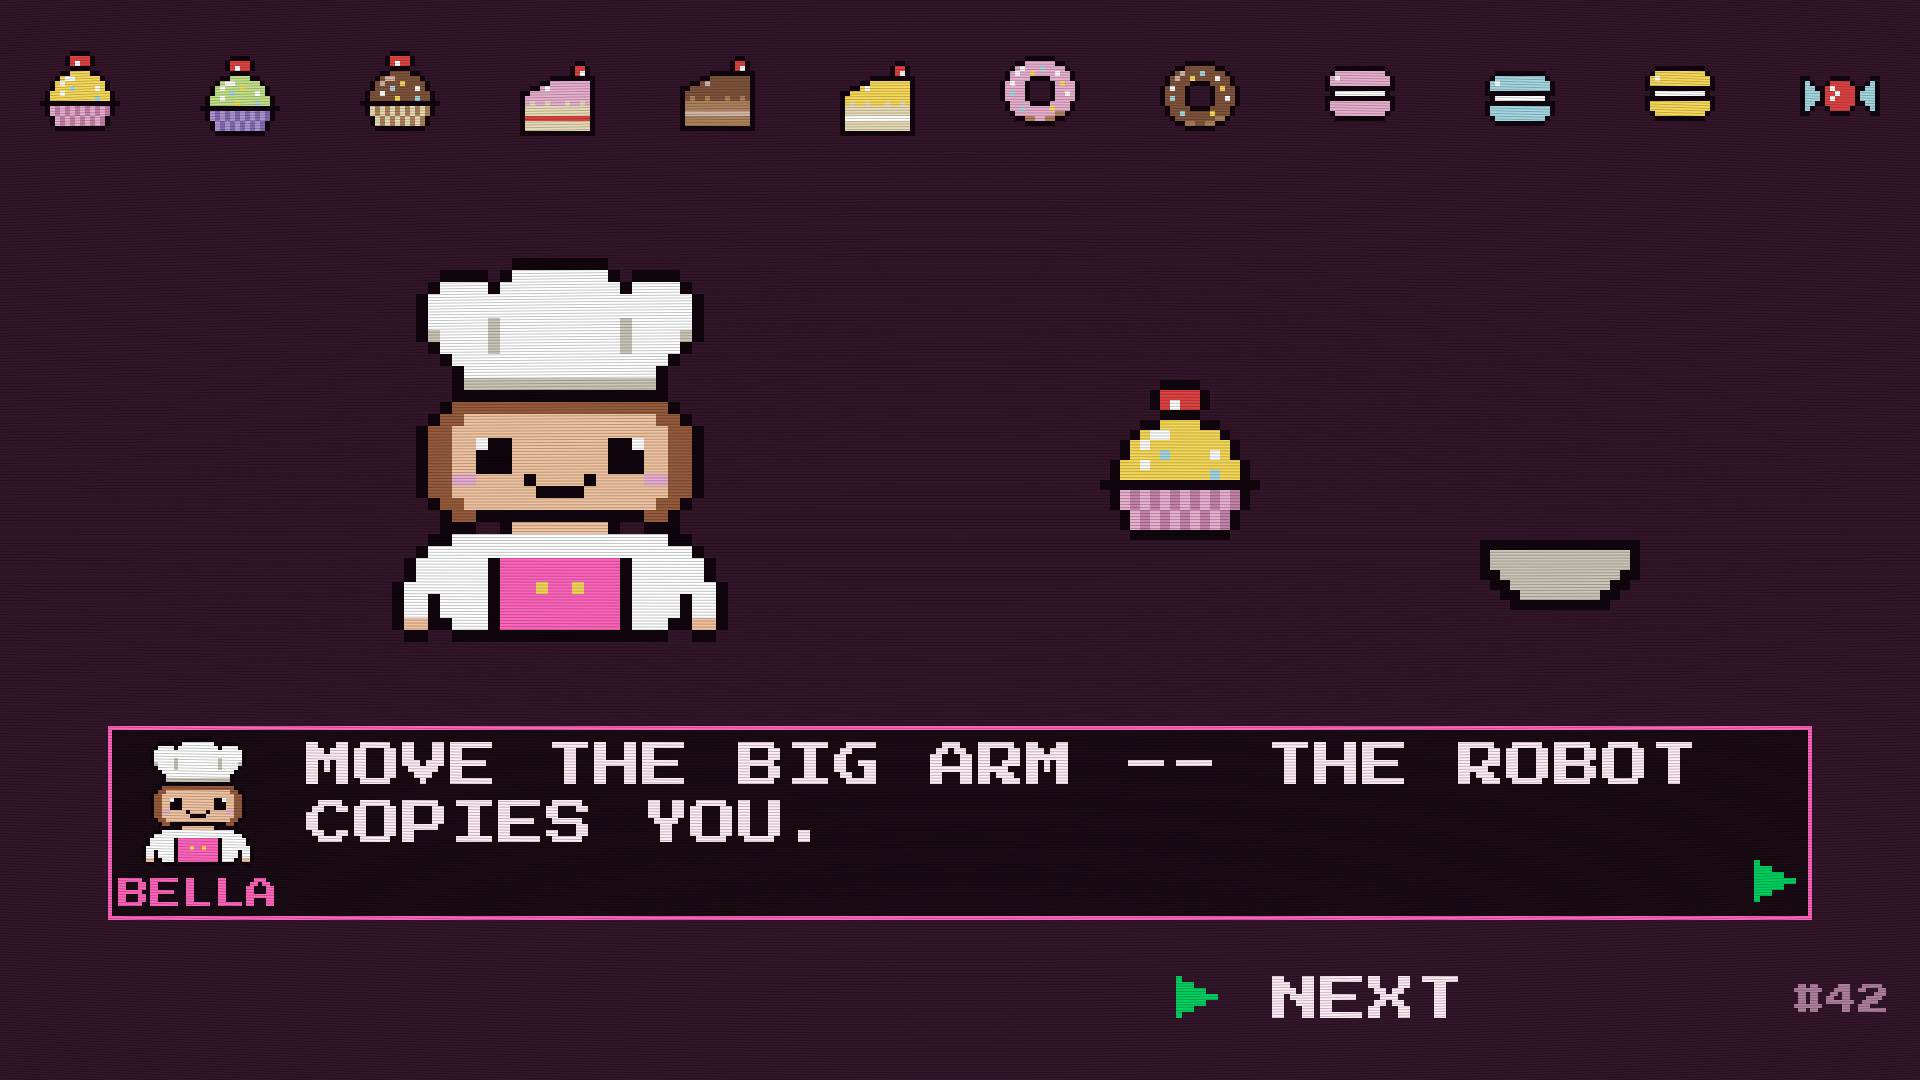
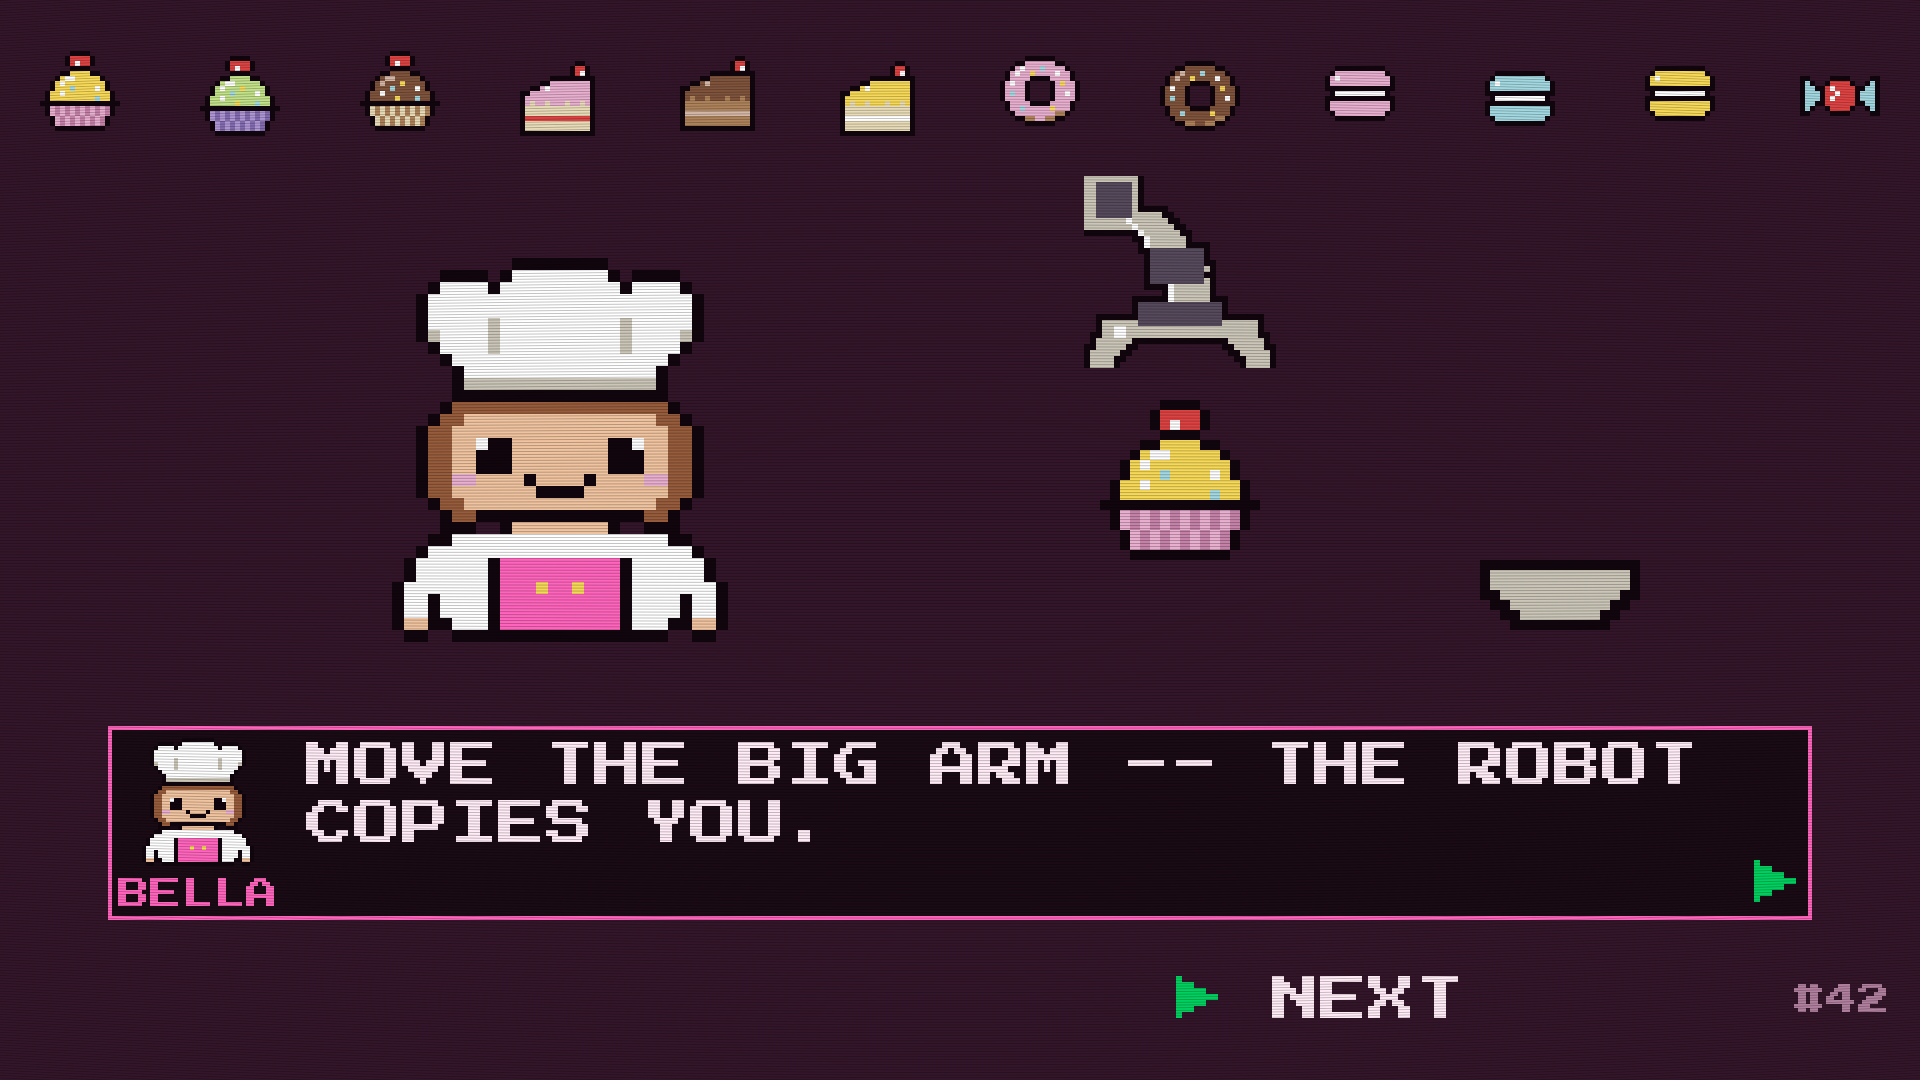
feat: the arm is back, carrying the treat on the story screen
The gripper thrown out on the 24th, rebuilt on a 32 x 32 grid. What was
wrong the first time was the grid, not the idea: on the treats' 16 x 16
there are three pixels each left for arm and claw, and what remains is
two thin jaws on a crossbar -- the crucifix.

The demo loop is eight frames now instead of six: approach, grip, lift,
carry, set down, let go, and the last frame three times over. Grip and
release are the same spot with a different pose, and that swap is what
makes it read as gripping rather than sliding.

Two measurements were not free. Held means arm y + 176, exactly half of
the 192 px arm box and the 160 px treat box together, so the edges touch
instead of overlapping and the layout self-test stays quiet. And the arm
runs at scale 6, not 7: between the parade (ends at y 136) and the text
box (starts at 726) scale 7 leaves 32 px of lift instead of 60, and a
32 px lift reads as sliding.

No pink. The joints are STEEL, a dark grey -- ACCENT means "what you are
affecting right now" on every other screen, and the arm only copies.

Changed region(s): [[0.5625, 0.1528, 0.6875, 0.5194], [0.75, 0.4889, 0.875, 0.5806]]

diff --git a/game/themes/sugar_rush.py b/game/themes/sugar_rush.py
@@ -427,13 +427,13 @@ SHAPES["guest_joy"] = _swap(SHAPES["guest"],
 # everything else on this screen is round. Now: a blunt 4 px tip, a wider
 # neck, legs that taper over three rows, and the highlight as a 2 x 2 blob
 # instead of a one-pixel diagonal, so it reads as a glint at 6 x scale.
-# The demo on the story screen: the gripper and the tray it drops into.
+# The demo on the story screen: the arm, and the tray it drops into.
 # Not treats, so they live outside SPRITES and never ride the idle belt.
 #
-# Both grids are aligned to their box edges, because scenes place them by
-# box and the layout self-test rejects any overlap: the gripper's fingers
-# end on the last row, the tray's rim starts on the first. A treat box set
-# directly underneath the gripper is then held by it, and one set directly
+# All three grids are aligned to their box edges, because scenes place them
+# by box and the layout self-test rejects any overlap: the claw's jaws end
+# on the last row, the tray's rim starts on the first. A treat box set
+# directly underneath the arm is then held by it, and one set directly
 # above the tray is lying in it -- no pixel nudging in the scene.
 SHAPES["tray"] = (
     "kkkkkkkkkkkkkkkk",
@@ -444,6 +444,91 @@ SHAPES["tray"] = (
     "..kkeeeeeeeekk..",
     "...kkkkkkkkkk...",
 ) + ("................",) * 9
+
+# The arm, 32 x 32 like the faces -- at the treats' 16 there is no room for
+# both an arm and a claw, and what was left over on the first attempt was
+# two thin jaws on a crossbar, which reads as a crucifix. The shoulder sits
+# in the top left corner and is meant to run off the edge: the real arm
+# stands next to the cabinet, so a base on the picture would be a second,
+# wrong machine.
+#
+# No pink. The joints are a darker grey (STEEL) instead of ACCENT, which
+# was tried first: three pink blocks made half the sprite an accent colour,
+# and ACCENT means "what the visitor is affecting right now" everywhere
+# else on the screen. The arm is not that -- it copies, it does not signal.
+#
+# Two poses, and the loop in scenes.py switches between them: that switch
+# is the whole animation of the grip. The jaws splay outwards when open --
+# an open claw pointing straight down reads as a pair of legs.
+SHAPES["arm"] = (
+    "aaaaaaaaak......................",
+    "aaddddddak......................",
+    "aaddddddak......................",
+    "aaddddddak......................",
+    "aaddddddak......................",
+    "aaddddddakkkkk..................",
+    "aaddddddaaaaakk.................",
+    "aaaaaaabaaaaaakk................",
+    "aaaaaaaabaaaaaakk...............",
+    "kkkkkkkkkbaaaaaakk..............",
+    "........kkbaaaaaak..............",
+    ".........kbaaaaaakkkk...........",
+    ".........kkdddddddddk...........",
+    "..........kdddddddddk...........",
+    "..........kdddddddddkk..........",
+    "..........kdddddddddak..........",
+    "..........kdddddddddkk..........",
+    "..........kdddddddddak..........",
+    "..........kkkkbaaaaaak..........",
+    ".............kbaaaaaak..........",
+    "........kkkkkkbaaaaaakkk........",
+    "........kddddddddddddddk........",
+    "........kddddddddddddddk........",
+    "..kkkkkkkddddddddddddddkkkkkkk..",
+    "..kaaaaaaddddddddddddddaaaaaak..",
+    "..kaabbaaaaaaaaaaaaaaaaaaaaaak..",
+    "..kaabbaaaaaaaaaaaaaaaaaaaaaak..",
+    "..kkaaaaaakkkkkkkkkkkkaaaaaakk..",
+    "...kkkaaaaakk......kkaaaaakkk...",
+    ".....kkkaaaakkk..kkkaaaakkk.....",
+    ".......kkkaaaakkkkaaaakkk.......",
+    ".........kkkaaakkaaakkk.........",
+)
+
+SHAPES["arm_open"] = (
+    "aaaaaaaaak......................",
+    "aaddddddak......................",
+    "aaddddddak......................",
+    "aaddddddak......................",
+    "aaddddddak......................",
+    "aaddddddakkkkk..................",
+    "aaddddddaaaaakk.................",
+    "aaaaaaabaaaaaakk................",
+    "aaaaaaaabaaaaaakk...............",
+    "kkkkkkkkkbaaaaaakk..............",
+    "........kkbaaaaaak..............",
+    ".........kbaaaaaakkkk...........",
+    ".........kkdddddddddk...........",
+    "..........kdddddddddk...........",
+    "..........kdddddddddkk..........",
+    "..........kdddddddddak..........",
+    "..........kdddddddddkk..........",
+    "..........kdddddddddak..........",
+    "..........kkkkbaaaaaak..........",
+    ".............kbaaaaaak..........",
+    "........kkkkkkbaaaaaakkk........",
+    "........kddddddddddddddk........",
+    "........kddddddddddddddk........",
+    "..kkkkkkkddddddddddddddkkkkkkk..",
+    "..kaaaaaaddddddddddddddaaaaaak..",
+    "..kaabbaaaaaaaaaaaaaaaaaaaaaak..",
+    ".kkaabbaaaaaaaaaaaaaaaaaaaaaakk.",
+    ".kaaaaaakkkkkkkkkkkkkkkkaaaaaak.",
+    "kkaaaaakk..............kkaaaaakk",
+    "kaaaaakk................kkaaaaak",
+    "kaaaakk..................kkaaaak",
+    "kaaaak....................kaaaak",
+)
 
 SHAPES["star"] = (
     "......kaak......",
@@ -471,6 +556,7 @@ SAKURA, LEMON, ICE = (232, 175, 207), (247, 217, 89), (163, 216, 225)
 APPLE, LILAC, SCARLET = (194, 225, 137), (174, 150, 212), (222, 67, 67)
 IVORY, TAN, LATTE = (255, 255, 255), (232, 219, 183), (211, 183, 167)
 CARAMEL, BONE, MILK = (174, 131, 91), (203, 198, 184), (128, 84, 60)
+STEEL = (86, 74, 92)        # the arm's joints, the only non-sweet colour
 
 # Applies to every sprite, individual palettes override it.
 BASE = dict(k=(18, 6, 14), w=IVORY, y=LEMON, m=ICE, r=SCARLET, e=BONE, b=IVORY)
@@ -504,6 +590,7 @@ SPRITES = {
 SKIN, HAIR = (240, 196, 160), (150, 92, 60)
 _BELLA = dict(s=SKIN, h=HAIR, c=SAKURA, a=(255, 101, 189))
 _OSKAR = dict(s=SKIN, h=CARAMEL, c=SAKURA, a=(255, 101, 189), d=ICE, g=APPLE)
+_ARM = dict(a=BONE, d=STEEL)     # b (the light edge) comes from BASE
 EXTRAS = {
     "baker":       ("baker",       _BELLA),
     "baker_talk":  ("baker_talk",  _BELLA),
@@ -513,6 +600,8 @@ EXTRAS = {
     "star_on":     ("star",        dict(a=LEMON, b=IVORY)),
     "star_off":    ("star",        dict(a=(96, 56, 82), b=(120, 76, 104))),
     "tray":        ("tray",        {}),
+    "arm":         ("arm",         _ARM),
+    "arm_open":    ("arm_open",    _ARM),
 }
 
 # marker_id -> sprite. The screen must show the same thing that's on the

diff --git a/game/scenes.py b/game/scenes.py
@@ -146,25 +146,39 @@ def parade(screen, t, y, speed, scale=5, gap=160):
 # it replaces did the work for everyone who can already read and none at
 # all for the five-year-olds the practice round exists for.
 #
-# There was a gripper carrying the treat here first, and it went out again
-# after four tries -- at 160 px a two-jaw claw reads as a crucifix, and
-# the arm is the one part of this machine nobody needs a picture of,
-# because it is standing in front of them. What a picture can say is where
-# the treat has to end up, and that is all this one says. The control
-# stays one sentence in the text box.
+# A gripper was tried here on 2026-09-24 and thrown out the same day -- at
+# the treats' 16 x 16 a two-jaw claw reads as a crucifix. It came back on
+# a 32 x 32 grid, which is what it needed all along, and now the picture
+# says both things: where the treat has to end up, and that the robot is
+# what puts it there. The control stays one sentence in the text box.
 DEMO_SCALE = 10             # 160 px a box -- next to Bella at 12x, less vanishes
+ARM_SCALE = 6               # 192 px. See DEMO for why it can't be bigger.
 DEMO_TREAT = LADDER[len(LADDER) // 2]    # not the cheapest: that one is a crumb
-DEMO_TRAY = (1560, 620)
-# The arc, as (x, y) of the treat. Last position three times over: the
-# frame worth reading is the one where it lies on the tray.
-DEMO = ((1180, 460), (1290, 330), (1450, 330),
-        (1560, 460), (1560, 460), (1560, 460))
+DEMO_TRAY = (1560, 640)
+# One frame is (x, arm y, claw shut, treat y) -- the treat is always under
+# the arm, so they share x. The heights are not free: the parade ends at
+# y 136 and the text box starts at 726, and between them the arm's 192 px
+# and the treat's 160 px have to fit twice over, once hanging and once
+# with the treat on the tray. Held means arm y + 176, exactly half of both
+# boxes, so the two edges touch and the layout self-test stays happy.
+#
+# The sequence is approach, grip, lift, carry, set down, let go. The grip
+# and the release are a pose swap in place: the same frame twice with a
+# different claw is what makes it read as gripping rather than sliding.
+# The last frame stands three times over -- the frame worth reading is the
+# one where the treat lies on the tray.
+DEMO = ((1180, 272, 0, 480), (1180, 304, 1, 480),
+        (1290, 244, 1, 420), (1450, 244, 1, 420),
+        (1560, 304, 1, 480), (1560, 272, 0, 480),
+        (1560, 272, 0, 480), (1560, 272, 0, 480))
 
 
 def demo(screen, t):
-    """One frame of the hop onto the tray."""
+    """One frame of the arm putting the treat on the tray."""
+    x, y, shut, ty = DEMO[int(t * 2) % len(DEMO)]
     stamp(screen, "tray", DEMO_SCALE, *DEMO_TRAY)
-    stamp(screen, DEMO_TREAT, DEMO_SCALE, *DEMO[int(t * 2) % len(DEMO)])
+    stamp(screen, "arm" if shut else "arm_open", ARM_SCALE, x, y)
+    stamp(screen, DEMO_TREAT, DEMO_SCALE, x, ty)
 
 
 @lru_cache(maxsize=4)

diff --git a/docs/todo.md b/docs/todo.md
@@ -19,11 +19,24 @@ done on 2026-09-24:
   down (g4–d5) instead of a 25 % pulse on g5–d6. The pulse's odd harmonics
   sat right on the lead, which is what made every letter poke through;
   measured −2.6 dB RMS against the old blip.
-- ● **Less text, more pictures**: the story screen runs a six-frame loop at
-  2 Hz — a treat hops off the table into the tray. A gripper carrying it
-  was tried first and thrown out after four passes: at 160 px a two-jaw
-  claw reads as a crucifix, and the arm is the one part of this machine
-  nobody needs a picture of. `help` and `tut` shrank accordingly.
+- ● **Less text, more pictures**: the story screen runs a loop at 2 Hz
+  instead of a sentence. First version was a treat hopping onto the tray by
+  itself — a gripper carrying it was tried and thrown out after four
+  passes, because at the treats' 16 × 16 a two-jaw claw reads as a
+  crucifix. `help` and `tut` shrank accordingly.
+- ● **The arm, second attempt** (2026-09-24): the gripper is back, on a
+  32 × 32 grid like the faces, and the loop is now eight frames — approach,
+  grip, lift, carry, set down, let go, and the last frame three times over.
+  What the first attempt got wrong was the grid, not the idea. Two things
+  were not free to choose: held means arm y + 176, exactly half of the two
+  boxes together, so their edges touch instead of overlapping and the
+  layout self-test stays quiet; and the arm runs at scale 6, because
+  between the parade (ends at y 136) and the text box (starts at 726)
+  scale 7 leaves 32 px of lift instead of 60, and 32 px reads as sliding.
+  The joints are `STEEL`, not `ACCENT` — pink means "what you are
+  affecting" everywhere else, and the arm only copies.
+  Open: the shoulder block hangs in mid-air. A sprite can't come in from
+  the edge of the screen.
 
 Also on 2026-09-24, on top of the three: the **player number is on screen
 from the name entry onwards**, not only during the practice round.
